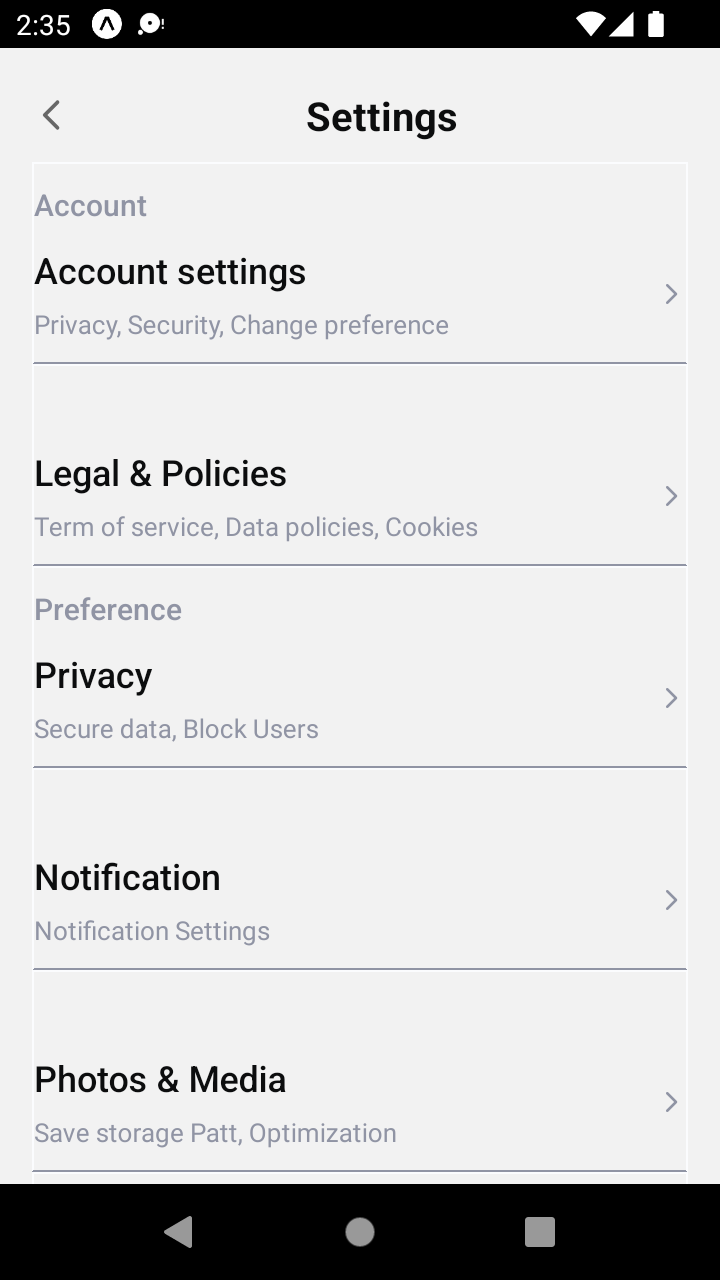
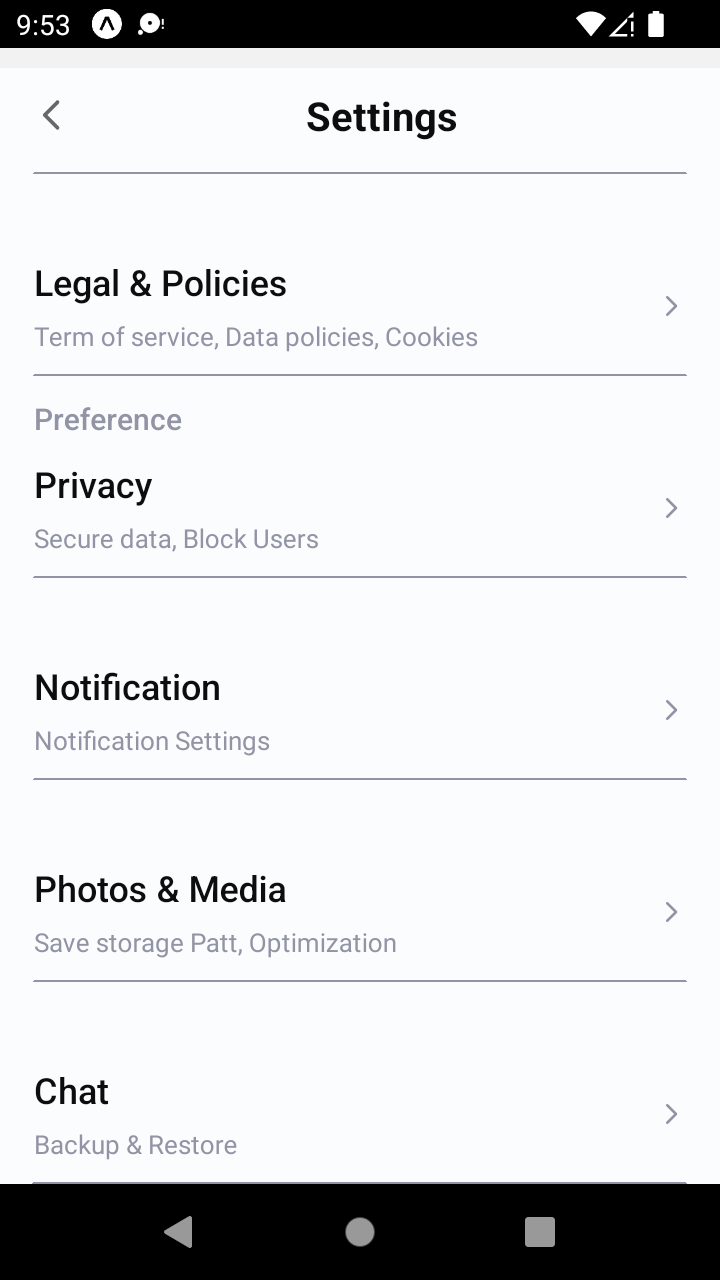
fixed small bug

diff --git a/Components/StatusComponent.js b/Components/StatusComponent.js
@@ -15,7 +15,7 @@ const StatusComponent = () => {
             <Text style={{color: colors.black, fontSize: 17, fontWeight: '600'}}>My Status</Text>
             <View style={{top: 8}}>
               {/* Profile button */}
-              <TouchableOpacity onPress={()=> navigation.navigate('ProfileScreen', {myStatus: sampleData.myStatus})}>
+              <TouchableOpacity onPress={()=> navigation.navigate('ProfileScreen', {status: sampleData.myStatus})}>
                 <PersonRow
                   image={sampleData.myStatus.image}
                   name={sampleData.myStatus.name}

diff --git a/Screens/SettingsScreen.js b/Screens/SettingsScreen.js
@@ -4,7 +4,7 @@ import {ChevronLeftIcon, ChevronRightIcon} from 'react-native-heroicons/outline'
 import colors from '../assets/colors/colors'
 const SettingsScreen = ({navigation}) => {
   return (
-    <SafeAreaView style={{marginTop: 10, flex:1}}>
+    <SafeAreaView style={{marginTop: 10, flex:1, backgroundColor: colors.white}}>
         <View style={{display: 'flex', flexDirection: 'row', alignItems: 'center', justifyContent: 'flex-start', marginTop: 10, paddingHorizontal: 15}}>
             <TouchableOpacity
                onPress={()=>navigation.goBack()}

diff --git a/assets/data/sampleData.js b/assets/data/sampleData.js
@@ -1,9 +1,12 @@
 export default sampleData = {
     myStatus: {
+        id: 0,
         image: require('../images/3.png'),
         name: 'Steven Smith',
         description: 'Tap to add status',
-        time: '2:45'
+        time: '2:45',            
+        badgeCount: 4,
+        callType: 'outgo',
     },
     friends: [
         {

diff --git a/Screens/ProfileScreen.js b/Screens/ProfileScreen.js
@@ -5,7 +5,7 @@ import {ChevronLeftIcon, PencilAltIcon} from 'react-native-heroicons/outline'
 import { useRoute } from '@react-navigation/native'
 const ProfileScreen = ({navigation}) => {
     const {params: {status}} = useRoute();
-
+    console.log(status);
   return (
 <SafeAreaView style={styles.container}>
     {/* Top View */}
